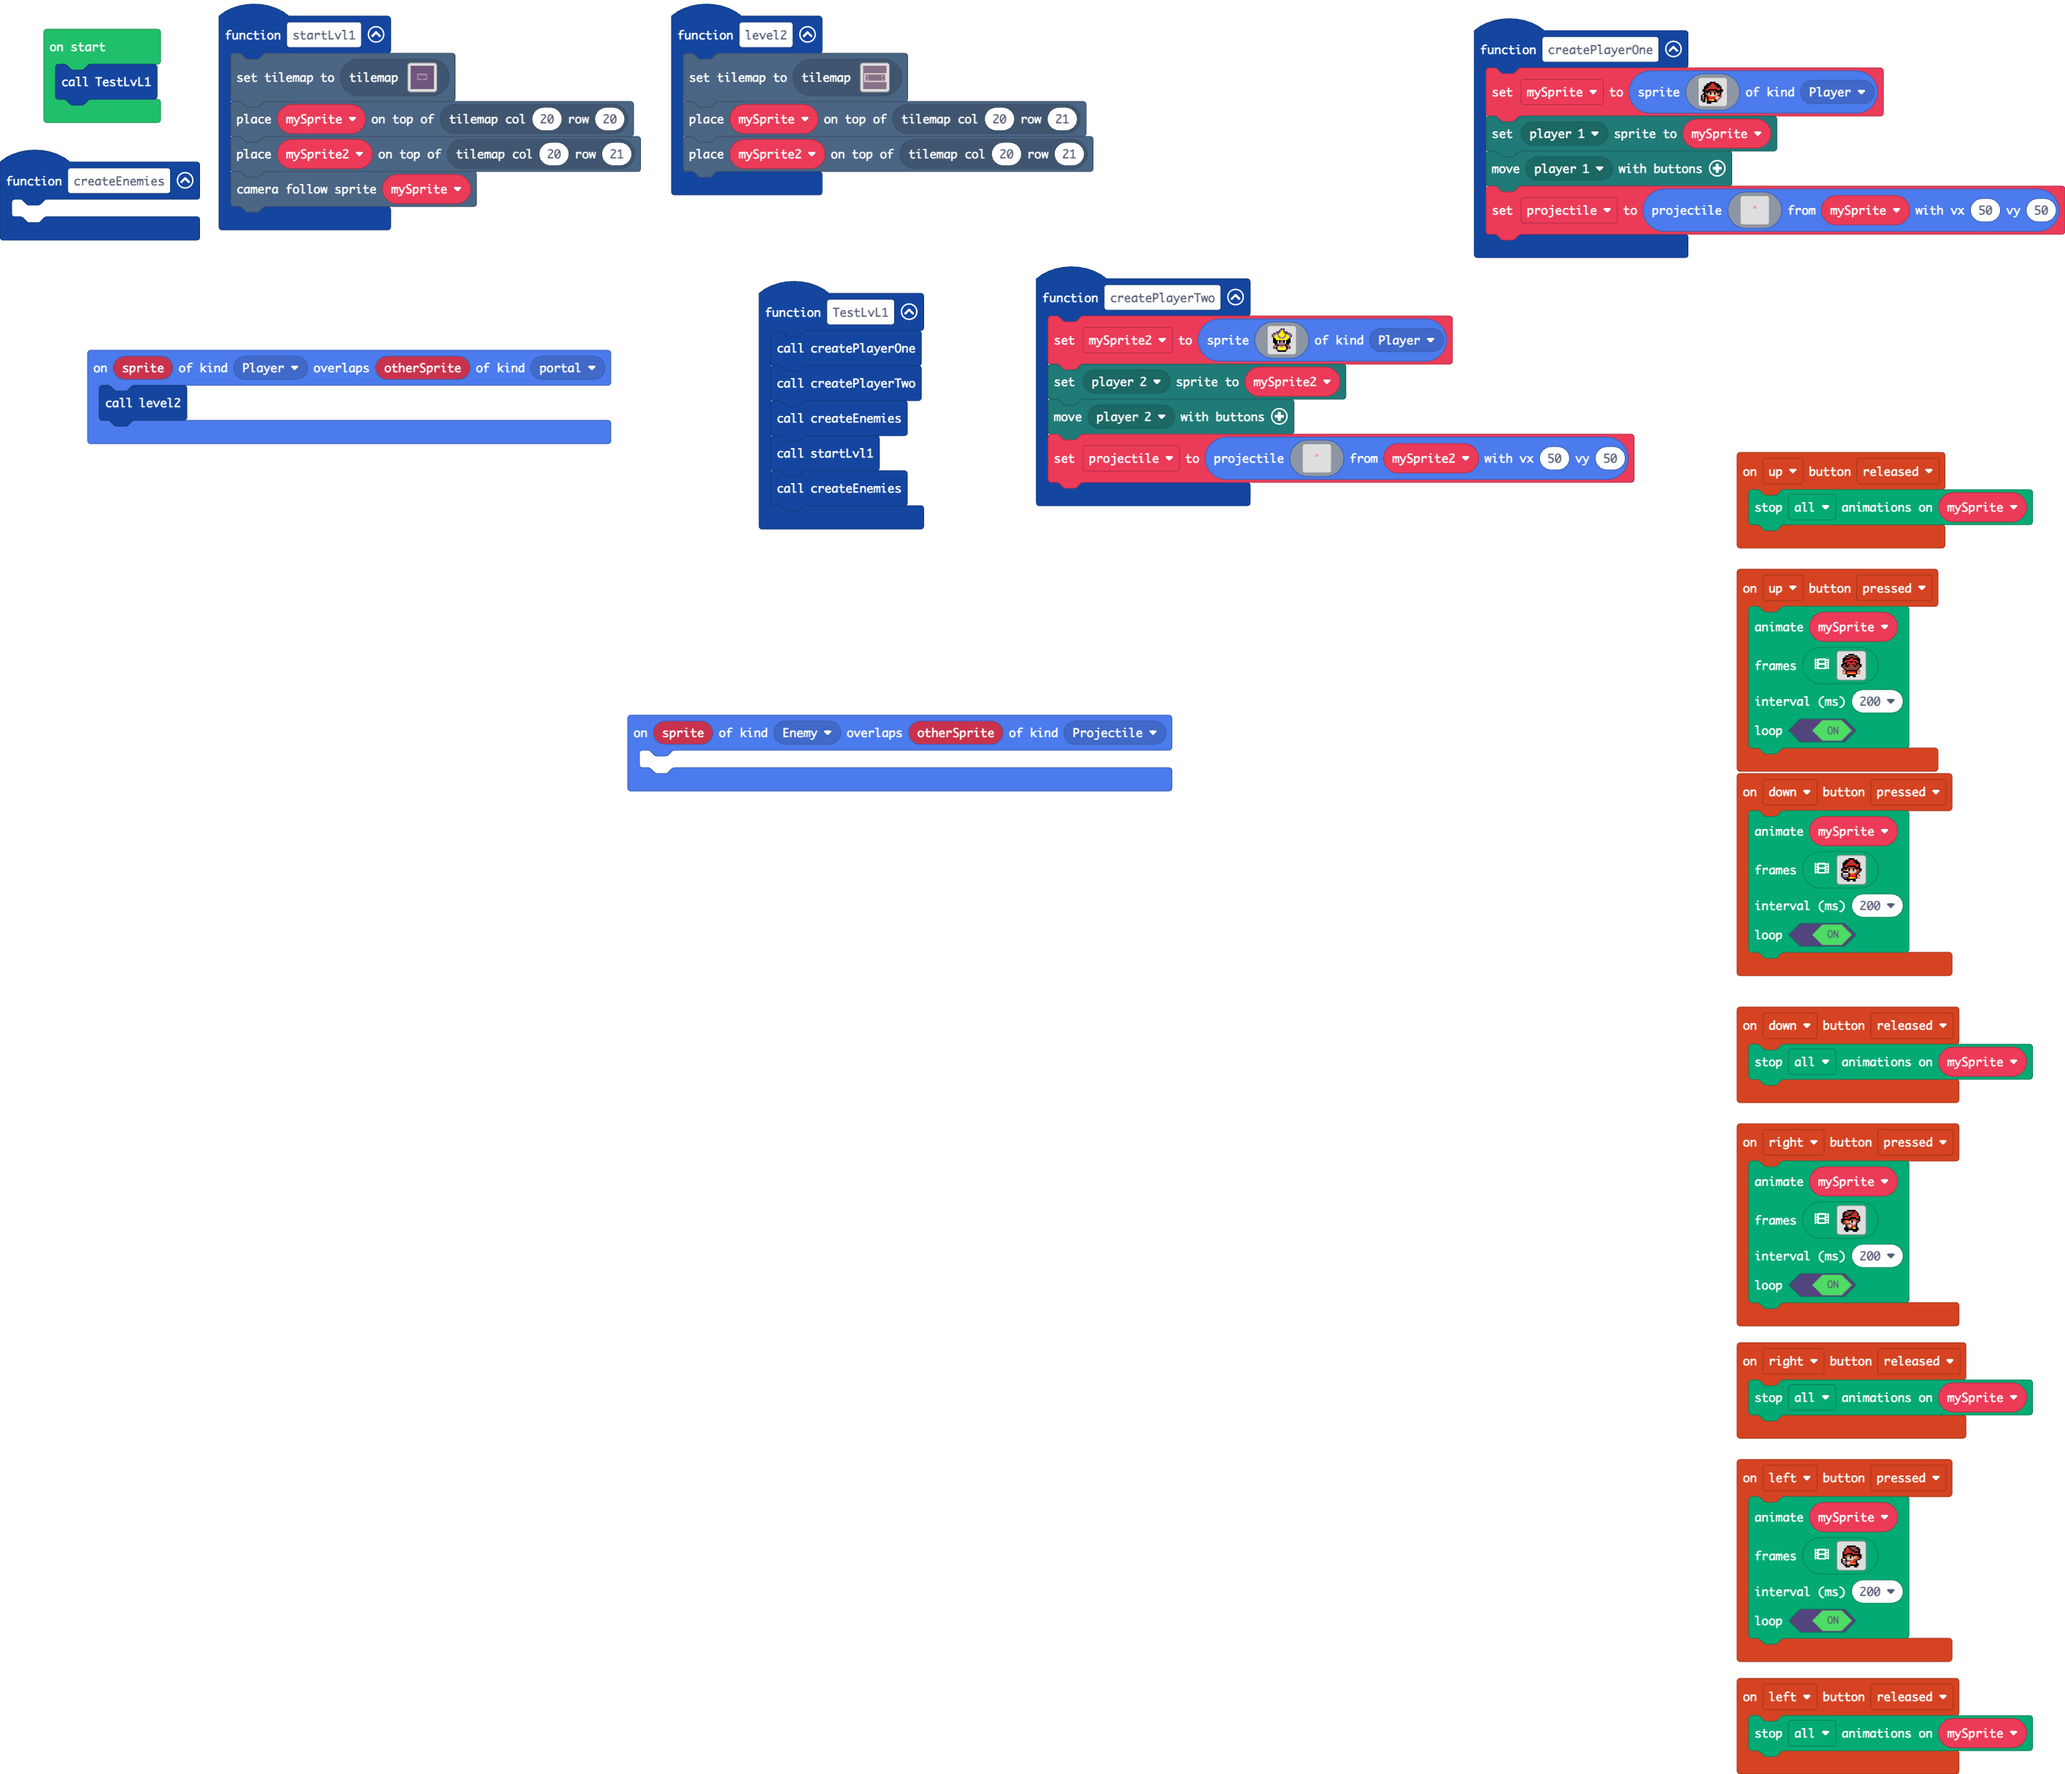
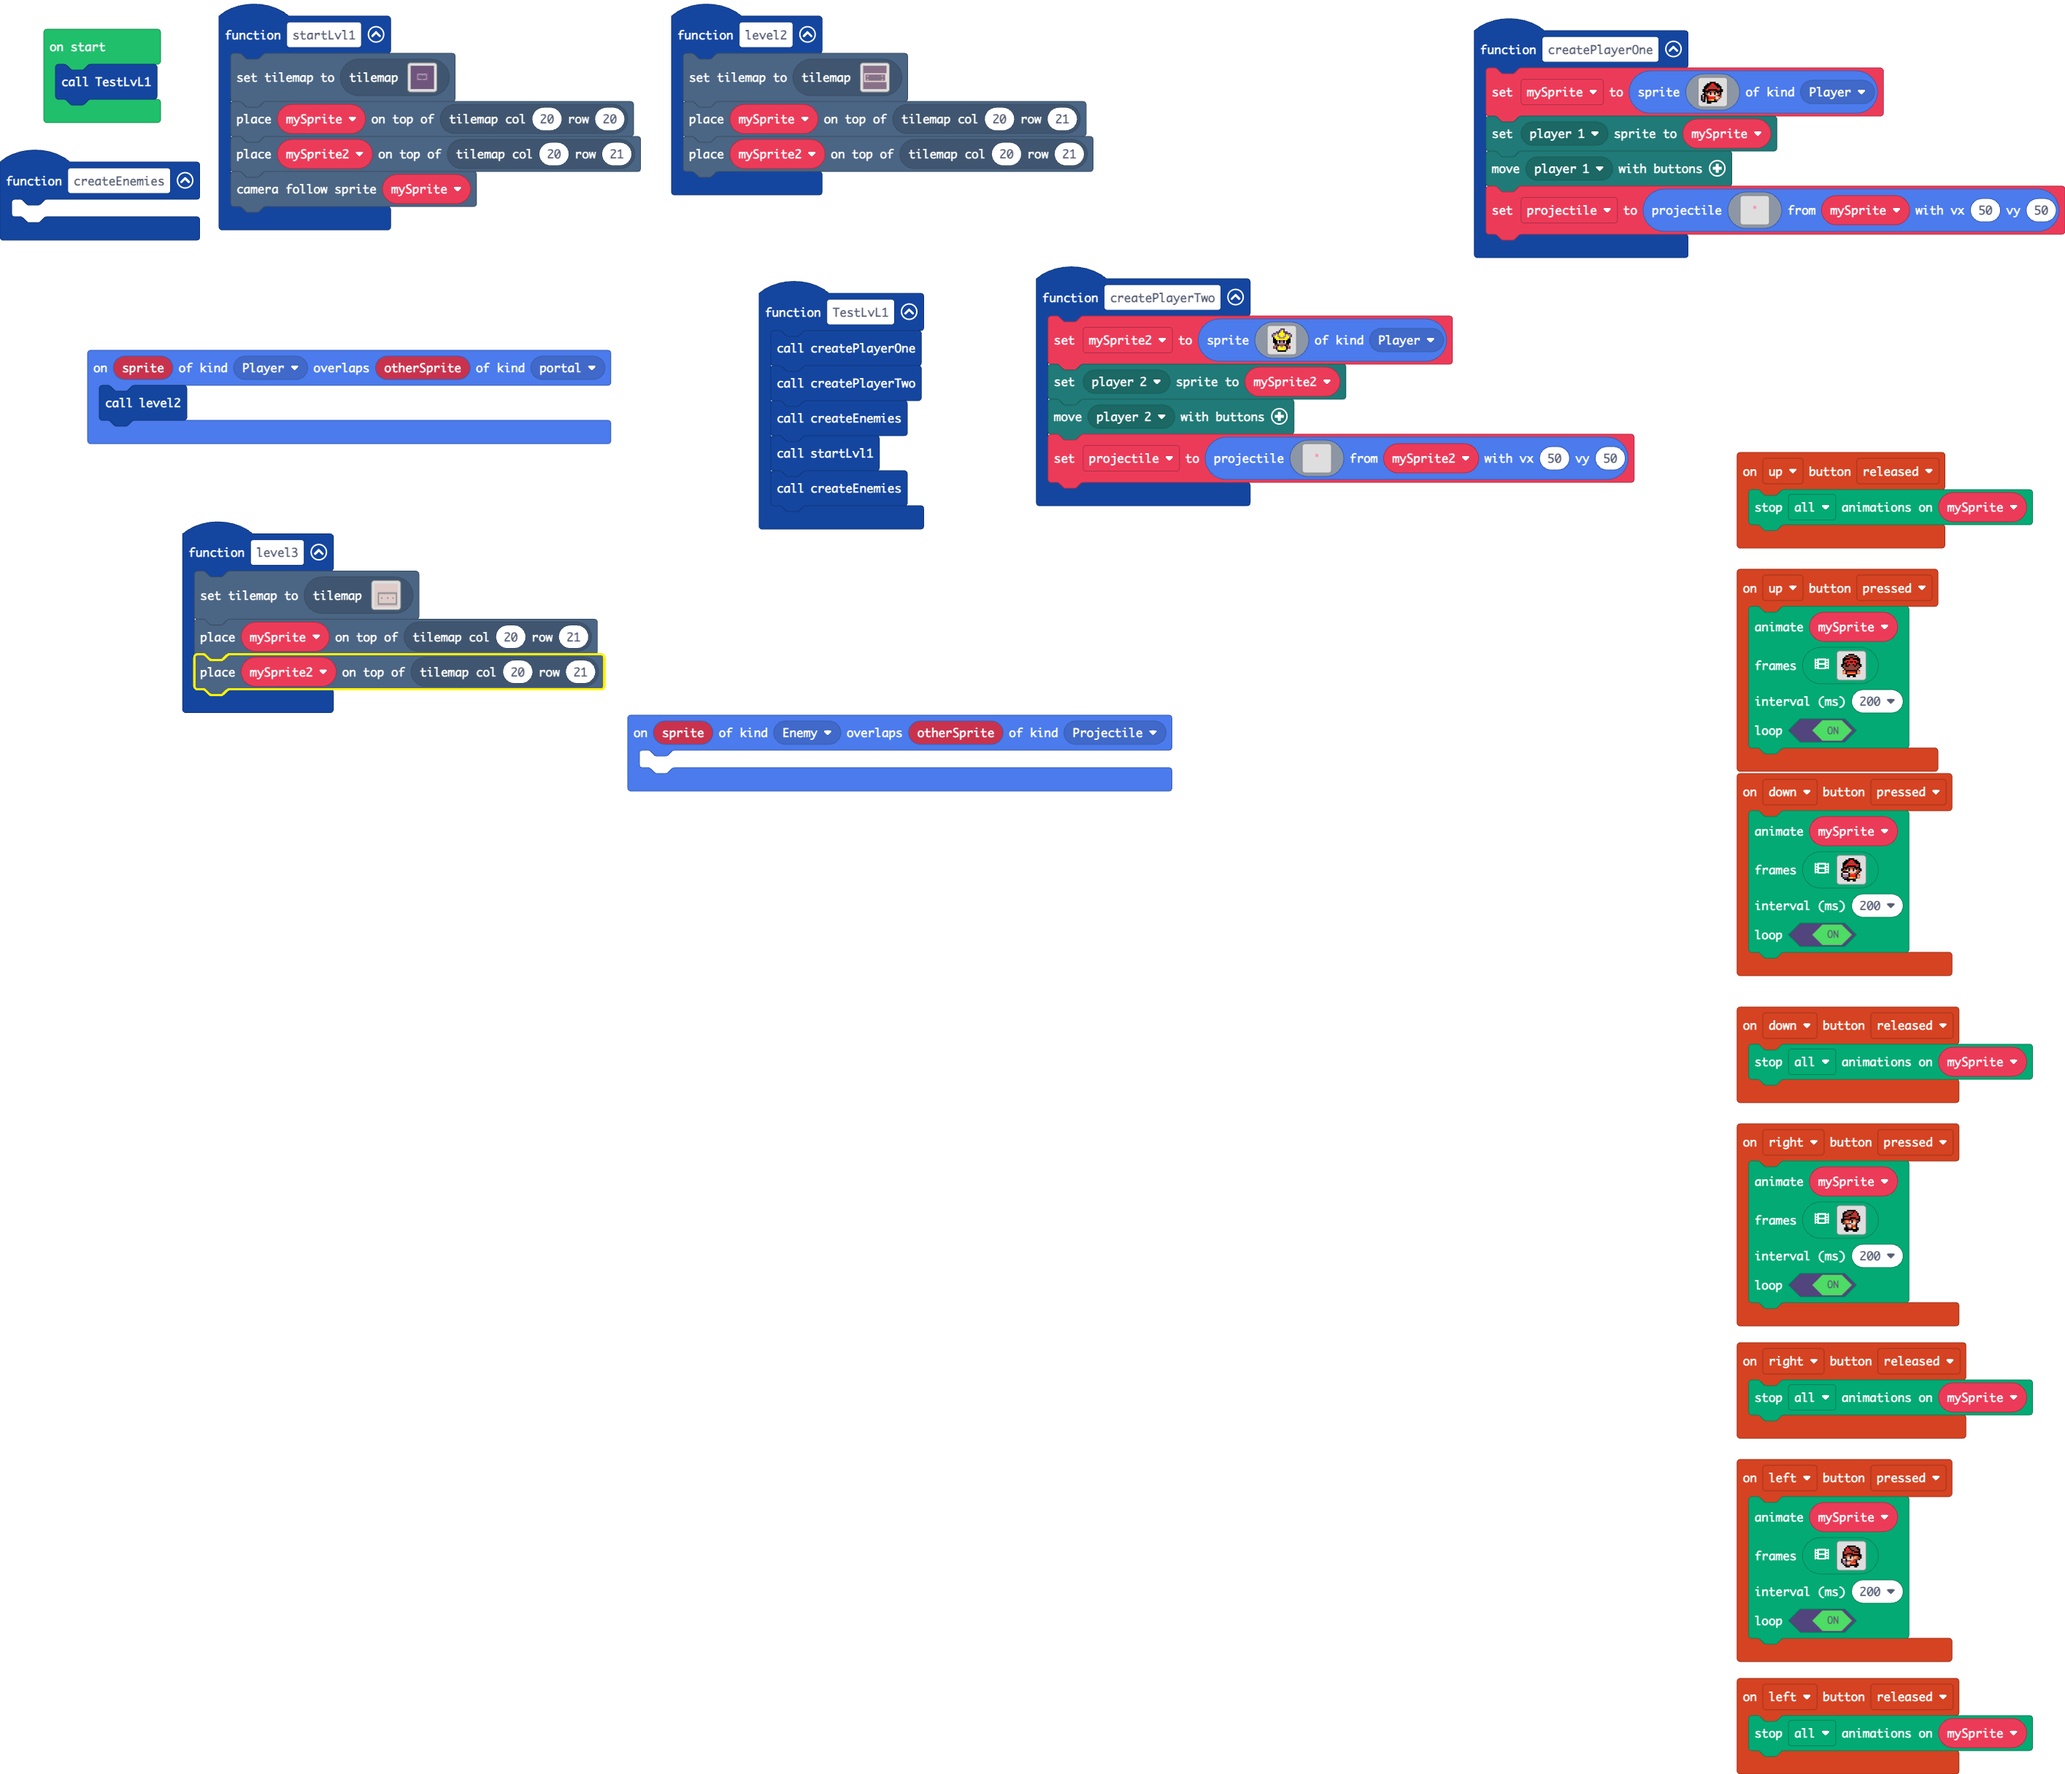
Update main.blocks, main.ts, tilemap.g.jres, tilemap.g.ts

Changed region(s): [[0.0622, 0.2777, 0.3111, 0.4011]]

diff --git a/tilemap.g.ts b/tilemap.g.ts
@@ -205,6 +205,68 @@ namespace myTiles {
 ........................................
 ........................................
 `, [myTiles.transparency16,sprites.builtin.oceanDepths0,sprites.builtin.brick,sprites.dungeon.floorLight0,sprites.dungeon.greenInnerSouthWest,sprites.dungeon.greenInnerSouthEast,sprites.dungeon.greenInnerNorthWest,sprites.dungeon.greenInnerNorthEast], TileScale.Sixteen);
+            case "level9":
+            case "level9":return tiles.createTilemap(hex`1000100000000000000000000000000000000000000000000000000000000000000000000000000000000000000000000000000000000000000000000000000000000000000000000000000000000000000000000000000000000000000000000000000000000000000000000000000000000000000000000000000000000000000000000000000000000000000000000000000000000000000000000000000000000000000000000000000000000000000000000000000000000000000000000000000000000000000000000000000000000000000000000000000000000000000000000000000000000000000000000000000000000000000000000000000000000000`, img`
+. . . . . . . . . . . . . . . . 
+. . . . . . . . . . . . . . . . 
+. . . . . . . . . . . . . . . . 
+. . . . . . . . . . . . . . . . 
+. . . . . . . . . . . . . . . . 
+. . . . . . . . . . . . . . . . 
+. . . . . . . . . . . . . . . . 
+. . . . . . . . . . . . . . . . 
+. . . . . . . . . . . . . . . . 
+. . . . . . . . . . . . . . . . 
+. . . . . . . . . . . . . . . . 
+. . . . . . . . . . . . . . . . 
+. . . . . . . . . . . . . . . . 
+. . . . . . . . . . . . . . . . 
+. . . . . . . . . . . . . . . . 
+. . . . . . . . . . . . . . . . 
+`, [myTiles.transparency16], TileScale.Sixteen);
+            case "level10":
+            case "level10":return tiles.createTilemap(hex`2800280001010101010101010101010101010101010101010101010101010101010101010101010101010101010101010101010101010101010101010101010101010101010101010101010101010101010101010101010101010101010101010101010101010101010101010101010101010101010101010101010101010101010101010101010101010101010101010101010101010101010101010101010101010101010101010101010101010101010101010101010101010101010101010101010101010101010101010101010101010101010101010101010101010101010101010101010101010101010101010101010101010101010101010101010101010101010101010101010101010101010101010101010101010101010101010101010101010101010101010101010101010101010101010101010101010101010101010101010101010101010101010101010101010101010101010101010101010101010101010101010101010101010101010101010101010101010101010101010101010101010101010101010101010101010101010101010101010101010101010101010101010101010101010101010101010101010101010101010101010101010101010101010101010101010101010101010101010101010101010101010101010101010101010101010101010101010101010101010101010101010101010101010101010101010101010101010101010101010101010101010101010101010101010101010101010101010101010101010101010101010101010101010101010101010101010101010101010101010101010101010101010101010102020202020202020202020202020202020202020202020202020202020202020201010101010101020202020202020202020202020202020202020202020202020202020202020202010101010101010207070707070707070707070707070707070707070707070707070707070707020101010101010102070101010101010101010101010101010101010101010101010101010101070201010101010101020701010101010101010101010101010101010101010101010101010101010702010101010101010207010101010101010101010101010101010101010101010101010101010107020101010101010102070101010101010101010101010101010101010101010101010101010101070201010101010101020701010101010101010101010101010101010101010101010101010101010702010101010101010207010101010101010101010101010101010101010101010101010101010107020101010101010102070101010103060101010101010101030601010101010101030601010101070201010101010101020701010101040501010101010101010405010101010101010405010101010702010101010101010207010101010101010101010101010101010101010101010101010101010107020101010101010102070101010101010101010101010101010101010101010101010101010101070201010101010101020701010101010101010101010101010101010101010101010101010101010702010101010101010207010101010101010101010101010101010101010101010101010101010107020101010101010102070101010101010101010101010101010101010101010101010101010101070201010101010101020701010101010101010101010101010101010101010101010101010101010702010101010101010207010101010101010101010101010101010101010101010101010101010107020101010101010102070101010101010101010101010101010101010101010101010101010101070201010101010101020707070707070707070707070707070707070707070707070707070707070702010101010101010202020202020202020202020202020202020202020202020202020202020202020101010101010102020202020202020202020202020202020202020202020202020202020202020201010101010101010101010101010101010101010101010101010101010101010101010101010101010101010101010101010101010101010101010101010101010101010101010101010101010101010101010101010101010101010101010101010101010101010101010101010101010101010101010101`, img`
+........................................
+........................................
+........................................
+........................................
+........................................
+........................................
+........................................
+........................................
+........................................
+........................................
+........................................
+........................................
+........................................
+........................................
+........................................
+........................................
+........................................
+........................................
+........................................
+........................................
+........................................
+........................................
+........................................
+........................................
+........................................
+........................................
+........................................
+........................................
+........................................
+........................................
+........................................
+........................................
+........................................
+........................................
+........................................
+........................................
+........................................
+........................................
+........................................
+........................................
+`, [myTiles.transparency16,sprites.dungeon.floorLight2,sprites.dungeon.floorDarkDiamond,sprites.dungeon.purpleInnerNorthWest,sprites.dungeon.purpleInnerSouthWest,sprites.dungeon.purpleInnerSouthEast,sprites.dungeon.purpleInnerNorthEast,sprites.dungeon.greenOuterNorth2], TileScale.Sixteen);
         }
         return null;
     })

diff --git a/main.ts b/main.ts
@@ -156,6 +156,11 @@ controller.left.onEvent(ControllerButtonEvent.Pressed, function () {
     true
     )
 })
+function level3 () {
+    tiles.setCurrentTilemap(tilemap`level10`)
+    tiles.placeOnTile(mySprite, tiles.getTileLocation(20, 21))
+    tiles.placeOnTile(mySprite2, tiles.getTileLocation(20, 21))
+}
 sprites.onOverlap(SpriteKind.Enemy, SpriteKind.Projectile, function (sprite, otherSprite) {
 	
 })
